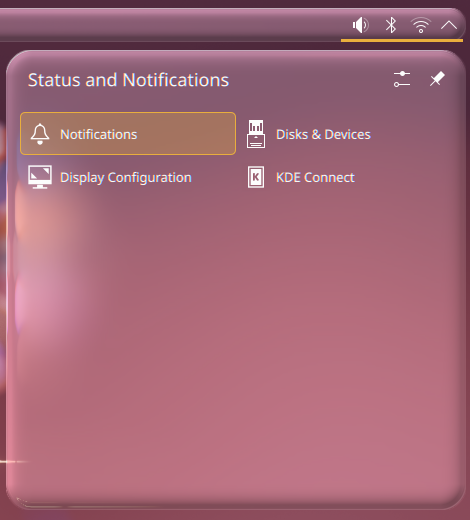
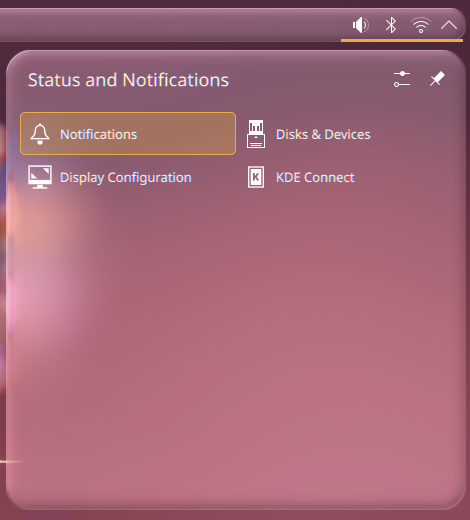
KDE: calmer glass edge defaults
Lower the edge shading, lens clarity, refraction and bezel width so the
glass sits flatter instead of popping out. Retake the screenshots.

diff --git a/kde-liquid-glass/src/liquidglass.cpp b/kde-liquid-glass/src/liquidglass.cpp
@@ -101,11 +101,11 @@ LiquidGlassEffect::LiquidGlassEffect()
 
     // Defaults: the Three.js prototype's lighting, with a frosted body and a refractive bezel.
     m_params = {
-        {"MaxZ", "max_z", 16.0},
-        {"DisplacementScale", "displacement_scale", 200.0},
+        {"MaxZ", "max_z", 12.0},
+        {"DisplacementScale", "displacement_scale", 130.0},
         {"EdgeSmoothing", "edge_smoothing", 2.4},
         {"ProfileShapeN", "profile_shape_n", 3.4},
-        {"BezelWidth", "bezel_width", 28.0},
+        {"BezelWidth", "bezel_width", 22.0},
         {"IOR", "ior", 2.40},
         {"ChromaStrength", "chroma_strength", 0.006},
         {"TintStrength", "tint_strength", 0.22},
@@ -121,8 +121,8 @@ LiquidGlassEffect::LiquidGlassEffect()
         {"Brightness", "brightness", 1.05},
         {"Contrast", "contrast", 1.0},
         {"Saturation", "saturation", 1.4},
-        {"EdgeClarity", "edge_clarity", 0.75},
-        {"EdgeShading", "edge_shading", 0.35},
+        {"EdgeClarity", "edge_clarity", 0.5},
+        {"EdgeShading", "edge_shading", 0.18},
     };
     for (FloatParam &param : m_params) {
         param.location = m_glassPass.shader->uniformLocation(param.uniform);

diff --git a/kde-liquid-glass/README.md b/kde-liquid-glass/README.md
@@ -114,16 +114,16 @@ qdbus6 org.kde.KWin /KWin reconfigure
 | PillPanels | true | draw panels and docks as capsules (radius = half their thickness) |
 | TintColor | #ffffff | |
 | TintStrength | 0.22 | |
-| MaxZ | 16 | glass thickness |
-| DisplacementScale | 200 | refraction strength |
-| BezelWidth | 28 | px over which the glass curves; flat beyond it |
+| MaxZ | 12 | glass thickness |
+| DisplacementScale | 130 | refraction strength |
+| BezelWidth | 22 | px over which the glass curves; flat beyond it |
 | IOR | 2.4 | |
 | ProfileShapeN | 3.4 | dome curvature (superellipse n) |
 | EdgeSmoothing | 2.4 | |
 | ChromaStrength | 0.006 | chromatic aberration |
 | RimWidth / RimIntensity / RimPower / RimDirectionalPower / RimLightColorIntensity | 2 / 0.6 / 8 / 1.7 / 2.5 | |
-| EdgeClarity | 0.75 | 0–1, how sharp (unblurred) the lensed background is in the bezel |
-| EdgeShading | 0.35 | 0–1, light/dark shading across the bezel from its curvature |
+| EdgeClarity | 0.5 | 0–1, how sharp (unblurred) the lensed background is in the bezel |
+| EdgeShading | 0.18 | 0–1, light/dark shading across the bezel from its curvature |
 | SpecularIntensity / Shininess | 0 / 42 | |
 | SheenIntensity | 0.1 | |
 | LightAngle | 120 | degrees, counter-clockwise from the right (120 = upper left) |
